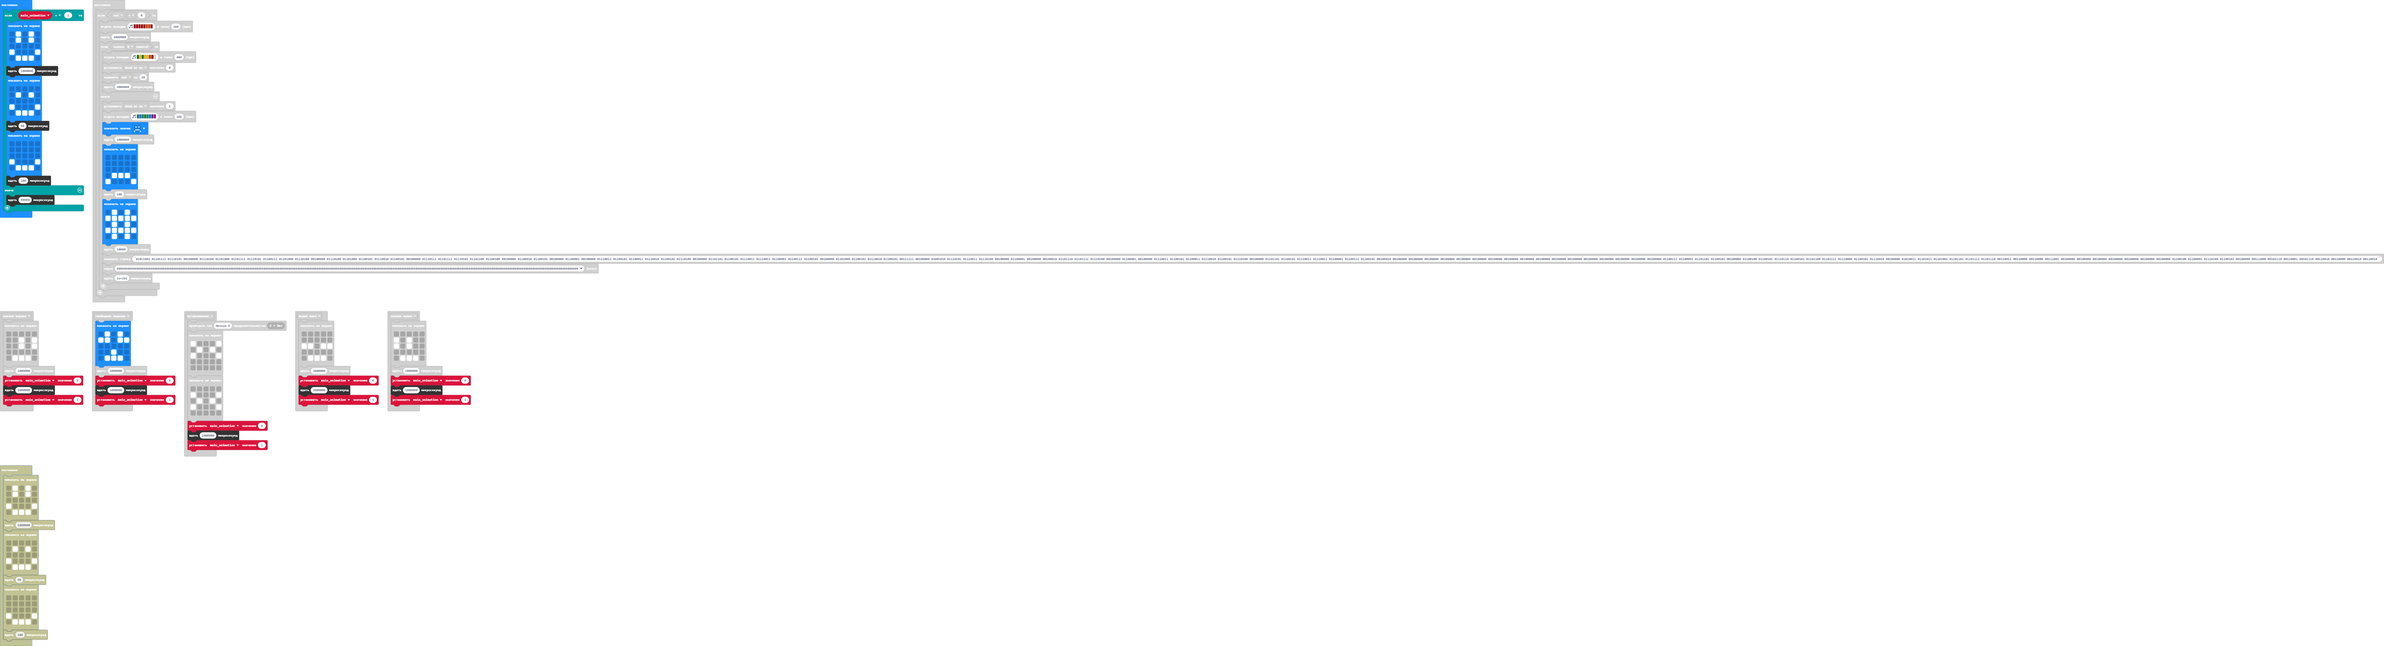
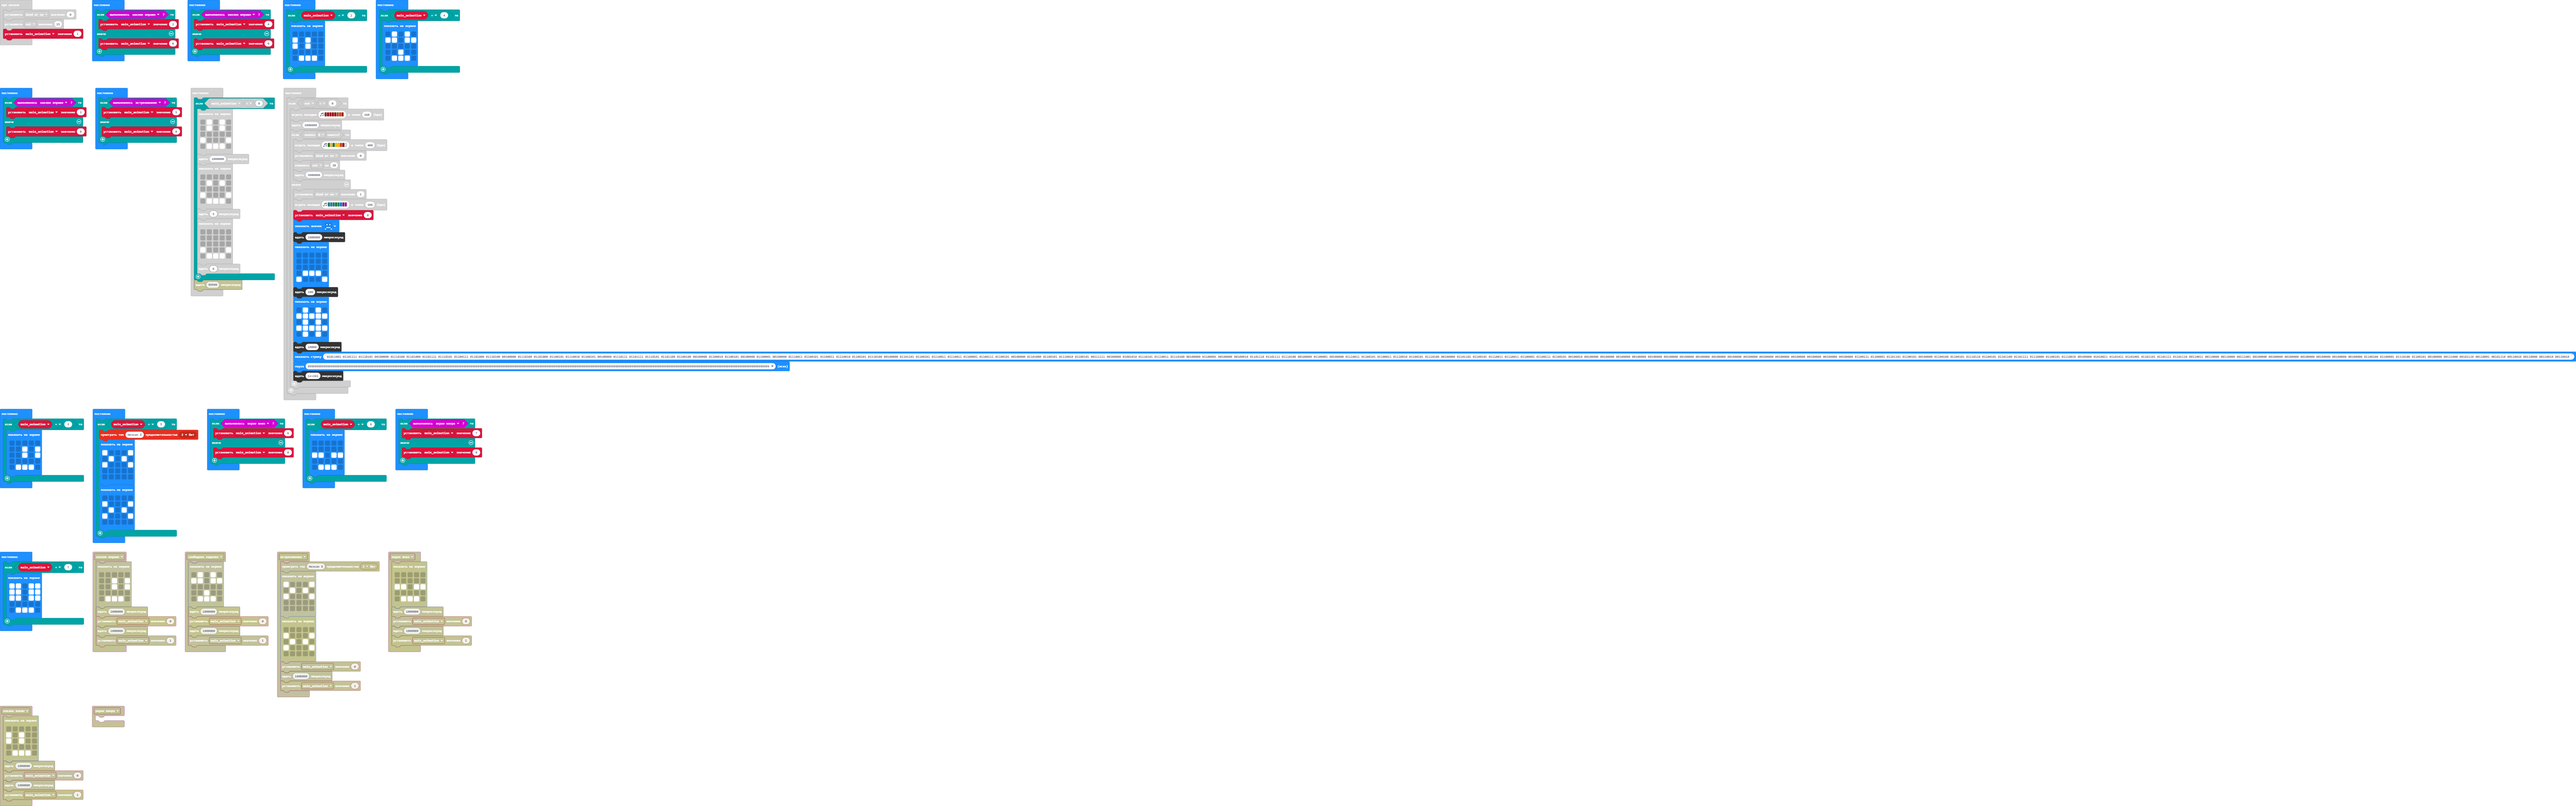
great anination bug fix

Changed region(s): [[0.0, 0.0, 1.0, 1.0]]

diff --git a/main.ts b/main.ts
@@ -1,29 +1,3 @@
-input.onGesture(Gesture.TiltLeft, function () {
-    basic.showLeds(`
-        . . . . .
-        # . # . .
-        # . # . .
-        . . . . .
-        . # # # .
-        `)
-    control.waitMicros(1000000)
-    main_animation = 0
-    control.waitMicros(1000000)
-    main_animation = 1
-})
-input.onGesture(Gesture.TiltRight, function () {
-    basic.showLeds(`
-        . . . . .
-        . . # . #
-        . . # . #
-        . . . . .
-        . # # # .
-        `)
-    control.waitMicros(1000000)
-    main_animation = 0
-    control.waitMicros(1000000)
-    main_animation = 1
-})
 input.onButtonPressed(Button.A, function () {
     basic.showNumber(eat)
 })
@@ -33,65 +7,66 @@ input.onButtonPressed(Button.AB, function () {
 input.onButtonPressed(Button.B, function () {
     dead_or_no = eat + 1
 })
-input.onGesture(Gesture.ScreenUp, function () {
-	
-})
-input.onGesture(Gesture.FreeFall, function () {
-    basic.showLeds(`
-        . # . # .
-        # # . # #
-        . . . . .
-        . . # . .
-        . # # # .
-        `)
-    control.waitMicros(1000000)
-    main_animation = 0
-    control.waitMicros(1000000)
-    main_animation = 1
-})
-input.onGesture(Gesture.ScreenDown, function () {
-    basic.showLeds(`
-        . . . . .
-        . . . . .
-        # # . # #
-        . . . . .
-        . # # # .
-        `)
-    control.waitMicros(1000000)
-    main_animation = 0
-    control.waitMicros(1000000)
-    main_animation = 1
-})
-input.onGesture(Gesture.Shake, function () {
-    music.playTone(165, music.beat(BeatFraction.Double))
-    basic.showLeds(`
-        # . . . #
-        . # . # .
-        # . . . #
-        . . . . .
-        . . . . .
-        `)
-    basic.showLeds(`
-        . . . . .
-        # . . . #
-        . # . # .
-        # . . . #
-        . . . . .
-        `)
-    main_animation = 0
-    control.waitMicros(1000000)
-    main_animation = 1
-})
-let main_animation = 0
 let eat = 0
 let dead_or_no = 0
 dead_or_no = 0
 eat = 15
+let main_animation = 1
 loops.everyInterval(1000, function () {
     eat = eat - 1
 })
 basic.forever(function () {
-    if (main_animation == 1) {
+    if (input.isGesture(Gesture.TiltRight)) {
+        main_animation = 2
+    } else {
+        main_animation = 0
+    }
+})
+basic.forever(function () {
+    if (input.isGesture(Gesture.TiltRight)) {
+        main_animation = 4
+    } else {
+        main_animation = 0
+    }
+})
+basic.forever(function () {
+    if (main_animation == 2) {
+        basic.showLeds(`
+            . . . . .
+            # . # . .
+            # . # . .
+            . . . . .
+            . # # # .
+            `)
+    }
+})
+basic.forever(function () {
+    if (main_animation == 4) {
+        basic.showLeds(`
+            . # . # .
+            # # . # #
+            . . . . .
+            . . # . .
+            . # # # .
+            `)
+    }
+})
+basic.forever(function () {
+    if (input.isGesture(Gesture.TiltRight)) {
+        main_animation = 3
+    } else {
+        main_animation = 0
+    }
+})
+basic.forever(function () {
+    if (input.isGesture(Gesture.Shake)) {
+        main_animation = 5
+    } else {
+        main_animation = 0
+    }
+})
+basic.forever(function () {
+    if (main_animation == 0) {
         basic.showLeds(`
             . # . # .
             . # . # .
@@ -107,7 +82,7 @@ basic.forever(function () {
             # . . . #
             . # # # .
             `)
-        control.waitMicros(50)
+        control.waitMicros(5)
         basic.showLeds(`
             . . . . .
             . . . . .
@@ -115,9 +90,7 @@ basic.forever(function () {
             # . . . #
             . # # # .
             `)
-        control.waitMicros(100)
-    } else {
-        control.waitMicros(99999)
+        control.waitMicros(6)
     }
 })
 basic.forever(function () {
@@ -132,6 +105,7 @@ basic.forever(function () {
         } else {
             dead_or_no = 1
             music.playMelody("F E F G F E D C ", 106)
+            main_animation = 0
             basic.showIcon(IconNames.Sad)
             control.waitMicros(1000000)
             basic.showLeds(`
@@ -154,5 +128,71 @@ basic.forever(function () {
             basic.pause(999999999999999999999999999999999999999999999999999999999999999999999999999999999999999999999999999999999999999999999999999999999999999999999999999999999999999999999999999999999999999999999999999999999999999999999999999999999999999999999999999999999999999999999)
             control.waitMicros(1e+261)
         }
+    }
+})
+basic.forever(function () {
+    if (main_animation == 3) {
+        basic.showLeds(`
+            . . . . .
+            . . # . #
+            . . # . #
+            . . . . .
+            . # # # .
+            `)
+    }
+})
+basic.forever(function () {
+    if (main_animation == 5) {
+        music.playTone(165, music.beat(BeatFraction.Double))
+        basic.showLeds(`
+            # . . . #
+            . # . # .
+            # . . . #
+            . . . . .
+            . . . . .
+            `)
+        basic.showLeds(`
+            . . . . .
+            # . . . #
+            . # . # .
+            # . . . #
+            . . . . .
+            `)
+    }
+})
+basic.forever(function () {
+    if (input.isGesture(Gesture.ScreenDown)) {
+        main_animation = 6
+    } else {
+        main_animation = 0
+    }
+})
+basic.forever(function () {
+    if (main_animation == 6) {
+        basic.showLeds(`
+            . . . . .
+            . . . . .
+            # # . # #
+            . . . . .
+            . # # # .
+            `)
+    }
+})
+basic.forever(function () {
+    if (input.isGesture(Gesture.ScreenUp)) {
+        main_animation = 7
+    } else {
+        main_animation = 0
+    }
+})
+basic.forever(function () {
+    if (main_animation == 7) {
+        basic.showLeds(`
+            # # . # #
+            # # . # #
+            # # . # #
+            . . . . .
+            . # # # .
+            `)
     }
 })
